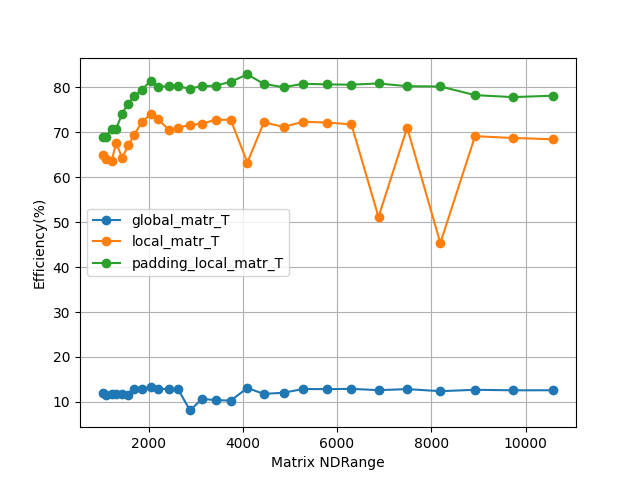
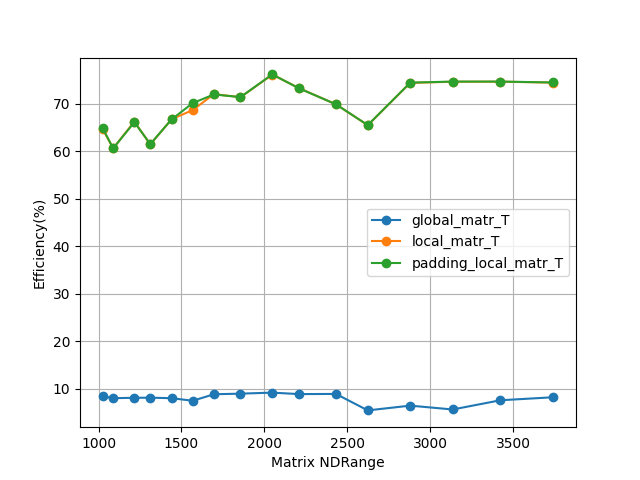
wv

diff --git a/Lab2/lab2.py b/Lab2/lab2.py
@@ -25,7 +25,7 @@ Local mem size: {} Bytes
 Max CU: {}
 Max work groub size: {} WIs\n""".format( device.name, global_mem, local_mem, max_CU, max_WGS)
     print(info)
-    context = cl.create_some_context()
+    context = cl.Context(devices) #cl.create_some_context()
     queue = cl.CommandQueue(context,
         properties=cl.command_queue_properties.PROFILING_ENABLE)
 
@@ -154,8 +154,8 @@ def lab2(M, N, check_results, print_results):
         
         data.update({"GPU_TIME (ms)": gpu_time * 1e-6})
 
-        mem_bw = (2 * device_matr_T.nbytes / pow(1024, 3)) / (gpu_time * 1e-6) # GB / s 
-        efficiency = (mem_bw  / 80 * 100)
+        mem_bw = (2 * device_matr_T.nbytes / pow(1024, 3)) / (gpu_time * 1e-9) # GB / s 
+        efficiency = (mem_bw  / 120 * 100)
         data.update({'Mem bandwidths (GB/s)': mem_bw, 'Efficiency(%)': efficiency})
 
         results.update({i: data})
@@ -191,7 +191,7 @@ Max work groub size: {} WIs\n""".format( device.name, global_mem, local_mem, max
     #print("Prop: {}".format(queue.set_property(cl.command_queue_properties.PROFILING_ENABLE, True)))
     
     sizes = [int(((2**i) // 32) * 32)
-            for i in np.arange(10, 13.5, 0.125)]
+            for i in np.arange(10, 12, 0.125)]
 
     efficiecies = {}
     
@@ -226,6 +226,8 @@ def lab2_parse_argv(argv):
     if len(argv) == 1:
         print("Enter more arguments")
         return
+    elif len(argv) == 4:
+        pass
     elif len(argv) == 5:
         check_results = True if argv[4] == 'check' else False
     elif len(argv) == 6:
@@ -243,7 +245,7 @@ def lab2_parse_argv(argv):
 
 def main():   
     lab2_parse_argv(sys.argv)
-    # graphics()
+    graphics()
 
 if __name__ == '__main__':
     main()
